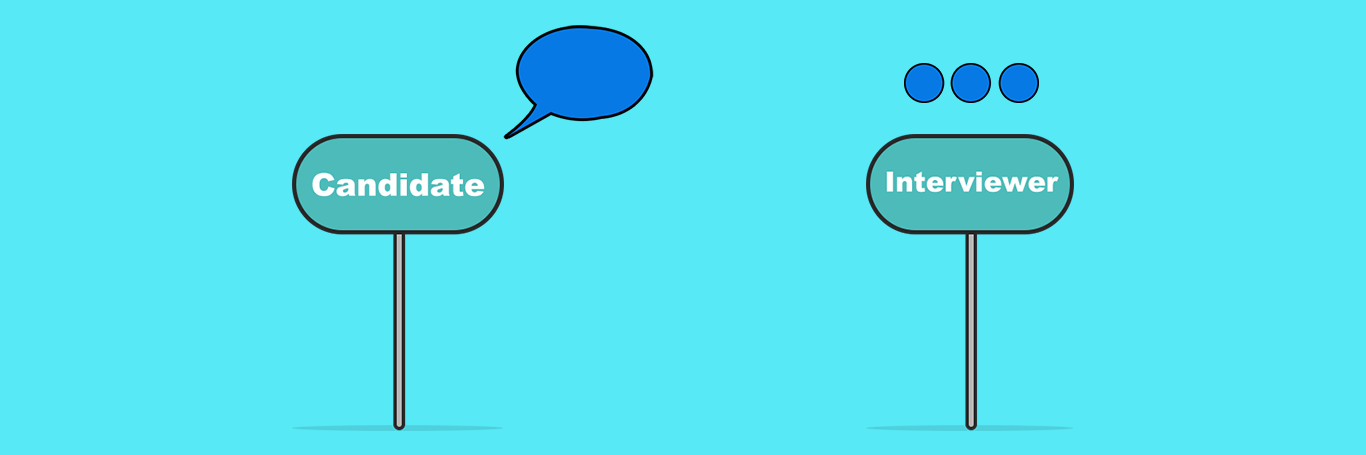
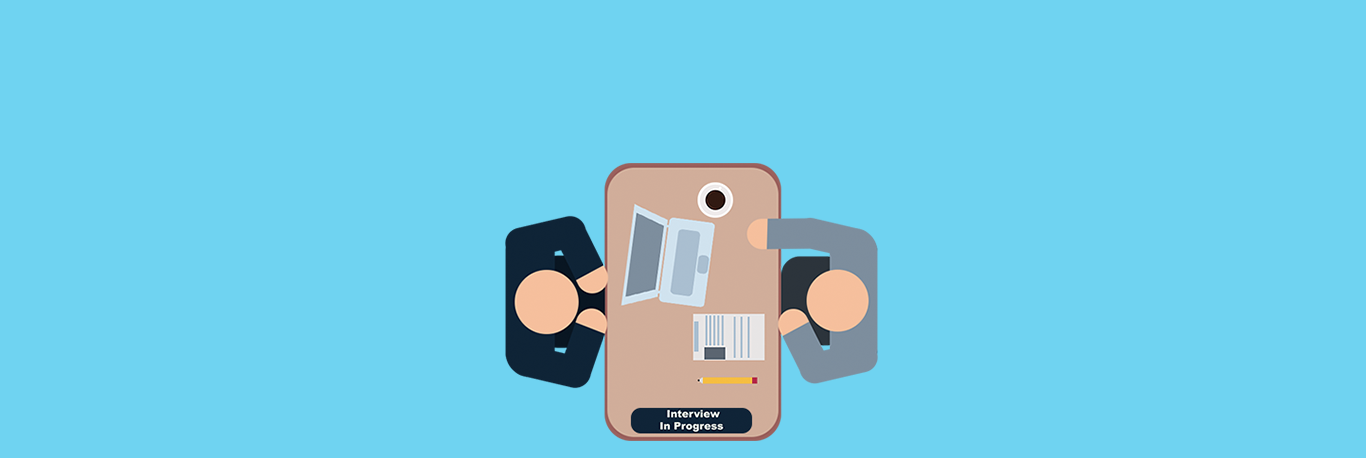
interview.html done now :)

Changed region(s): [[0.2152, 0.0308, 0.7994, 0.9846], [0.6457, 0.1231, 0.7687, 0.2462]]

diff --git a/css/service.css b/css/service.css
@@ -1,10 +1,12 @@
 /* INTERVIEW PAGE */
-.interview-hero img {
+.interview-hero-banner {
+  background: url(../img/background/interview-container-1.png) no-repeat scroll center center;
+  position: relative;
+  padding: 70px 0;
   background-size: cover;
-  width: 100%;
-  height: 100%;
-  margin-top: 5em;
+  min-height: 450px;
 }
+
 
 .interview-area .area-heading h1 {
   text-align: center;

diff --git a/interview.html b/interview.html
@@ -52,9 +52,7 @@
     </div>
   </header>
 
-  <div class="interview-hero">
-    <img src="img/background/interview-container-1.png">
-  </div>
+  <section class="interview-hero-banner d-flex align-items-center"></section>
 
   <section class="interview-area">
     <div class="interview-area-inner d-flex align-items-center">
